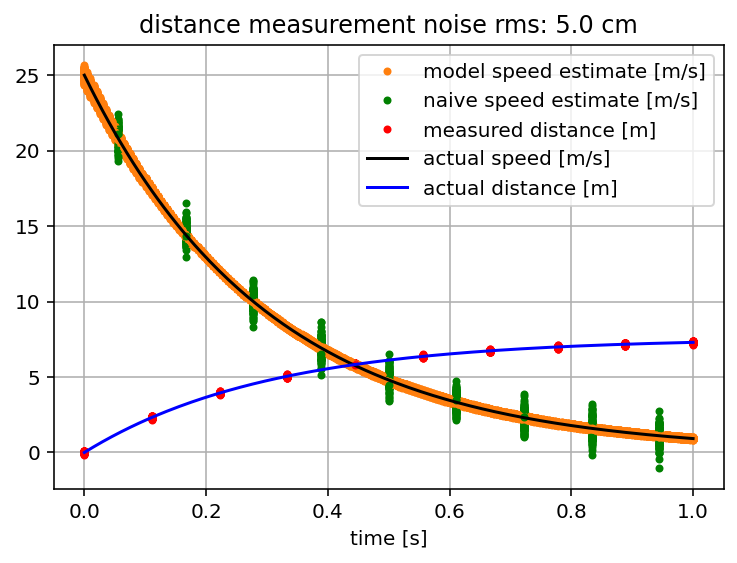
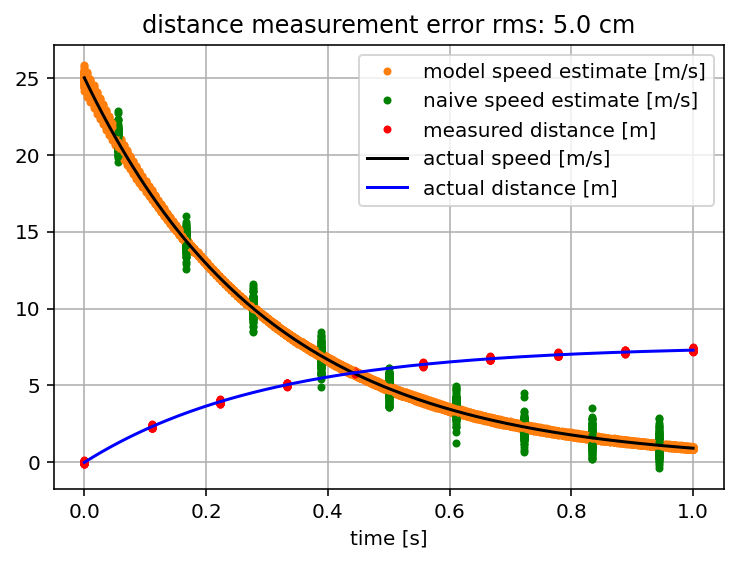
saving

Changed region(s): [[0.0, 0.1208, 0.9986, 0.8455], [0.1872, 0.0302, 0.8738, 0.0604]]

diff --git a/drag/model.py b/drag/model.py
@@ -85,7 +85,7 @@ if __name__ == "__main__":
     plt.legend()
     plt.grid()
     plt.xlabel('time [s]')
-    plt.title(f'distance measurement noise rms: {noise_rms*100} cm')
+    plt.title(f'distance measurement error rms: {noise_rms*100} cm')
     plt.show()
     
     
